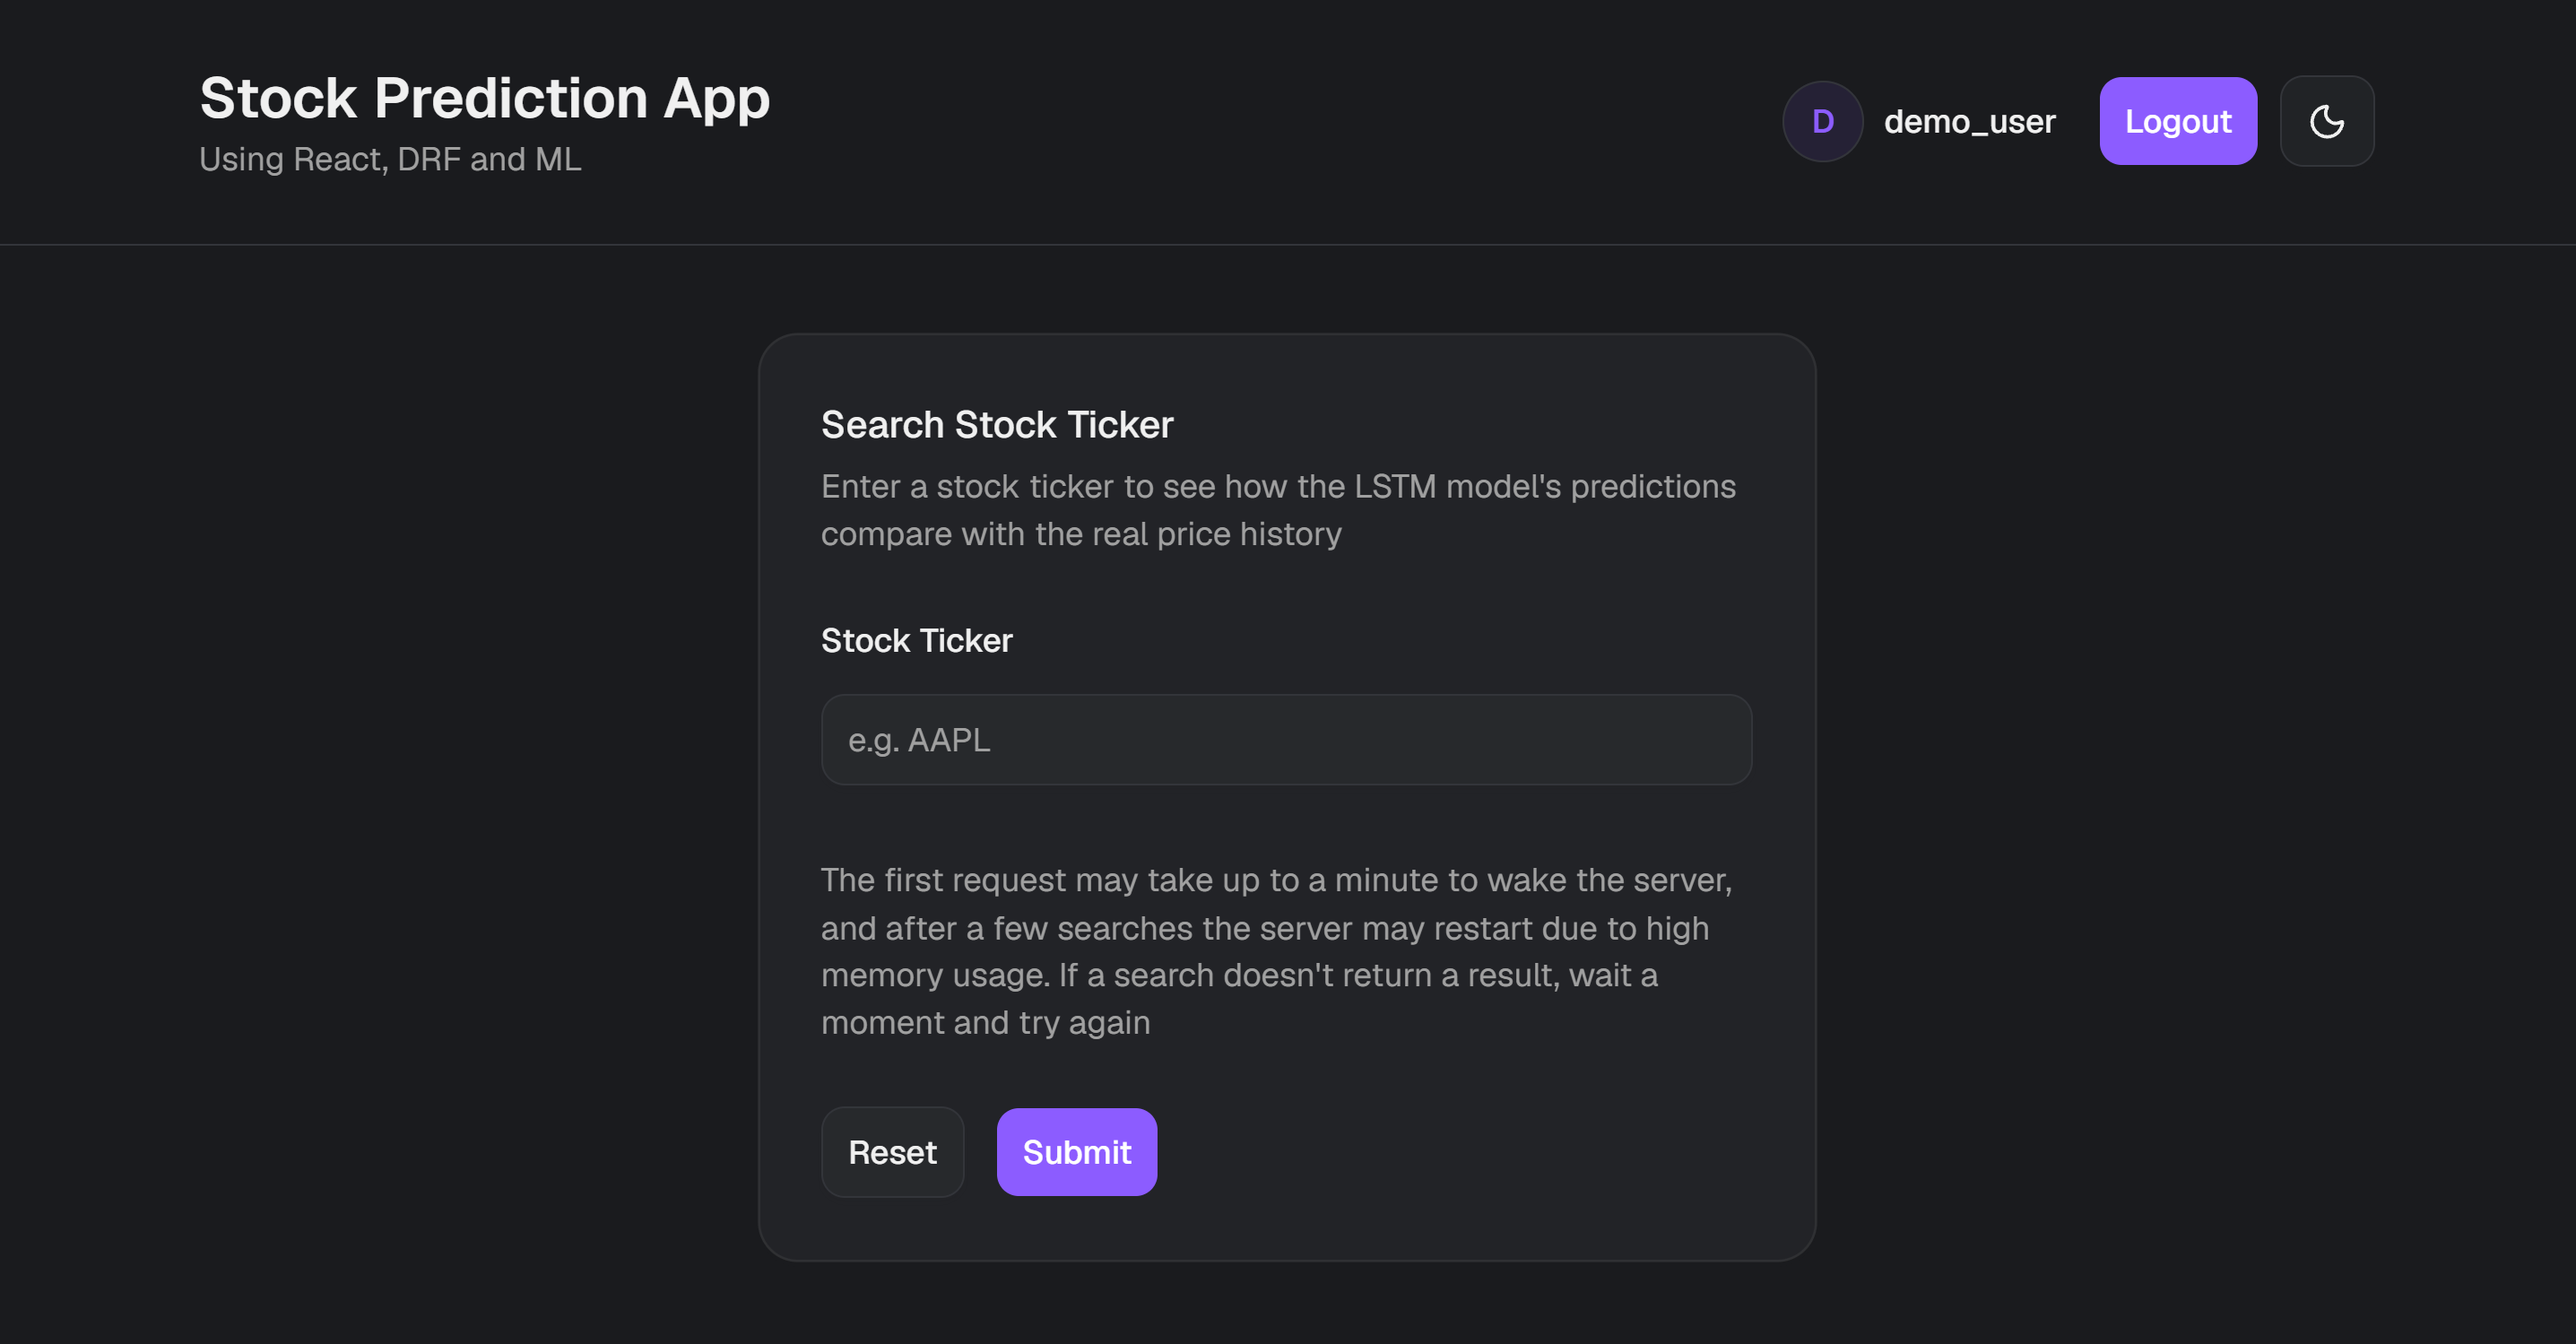
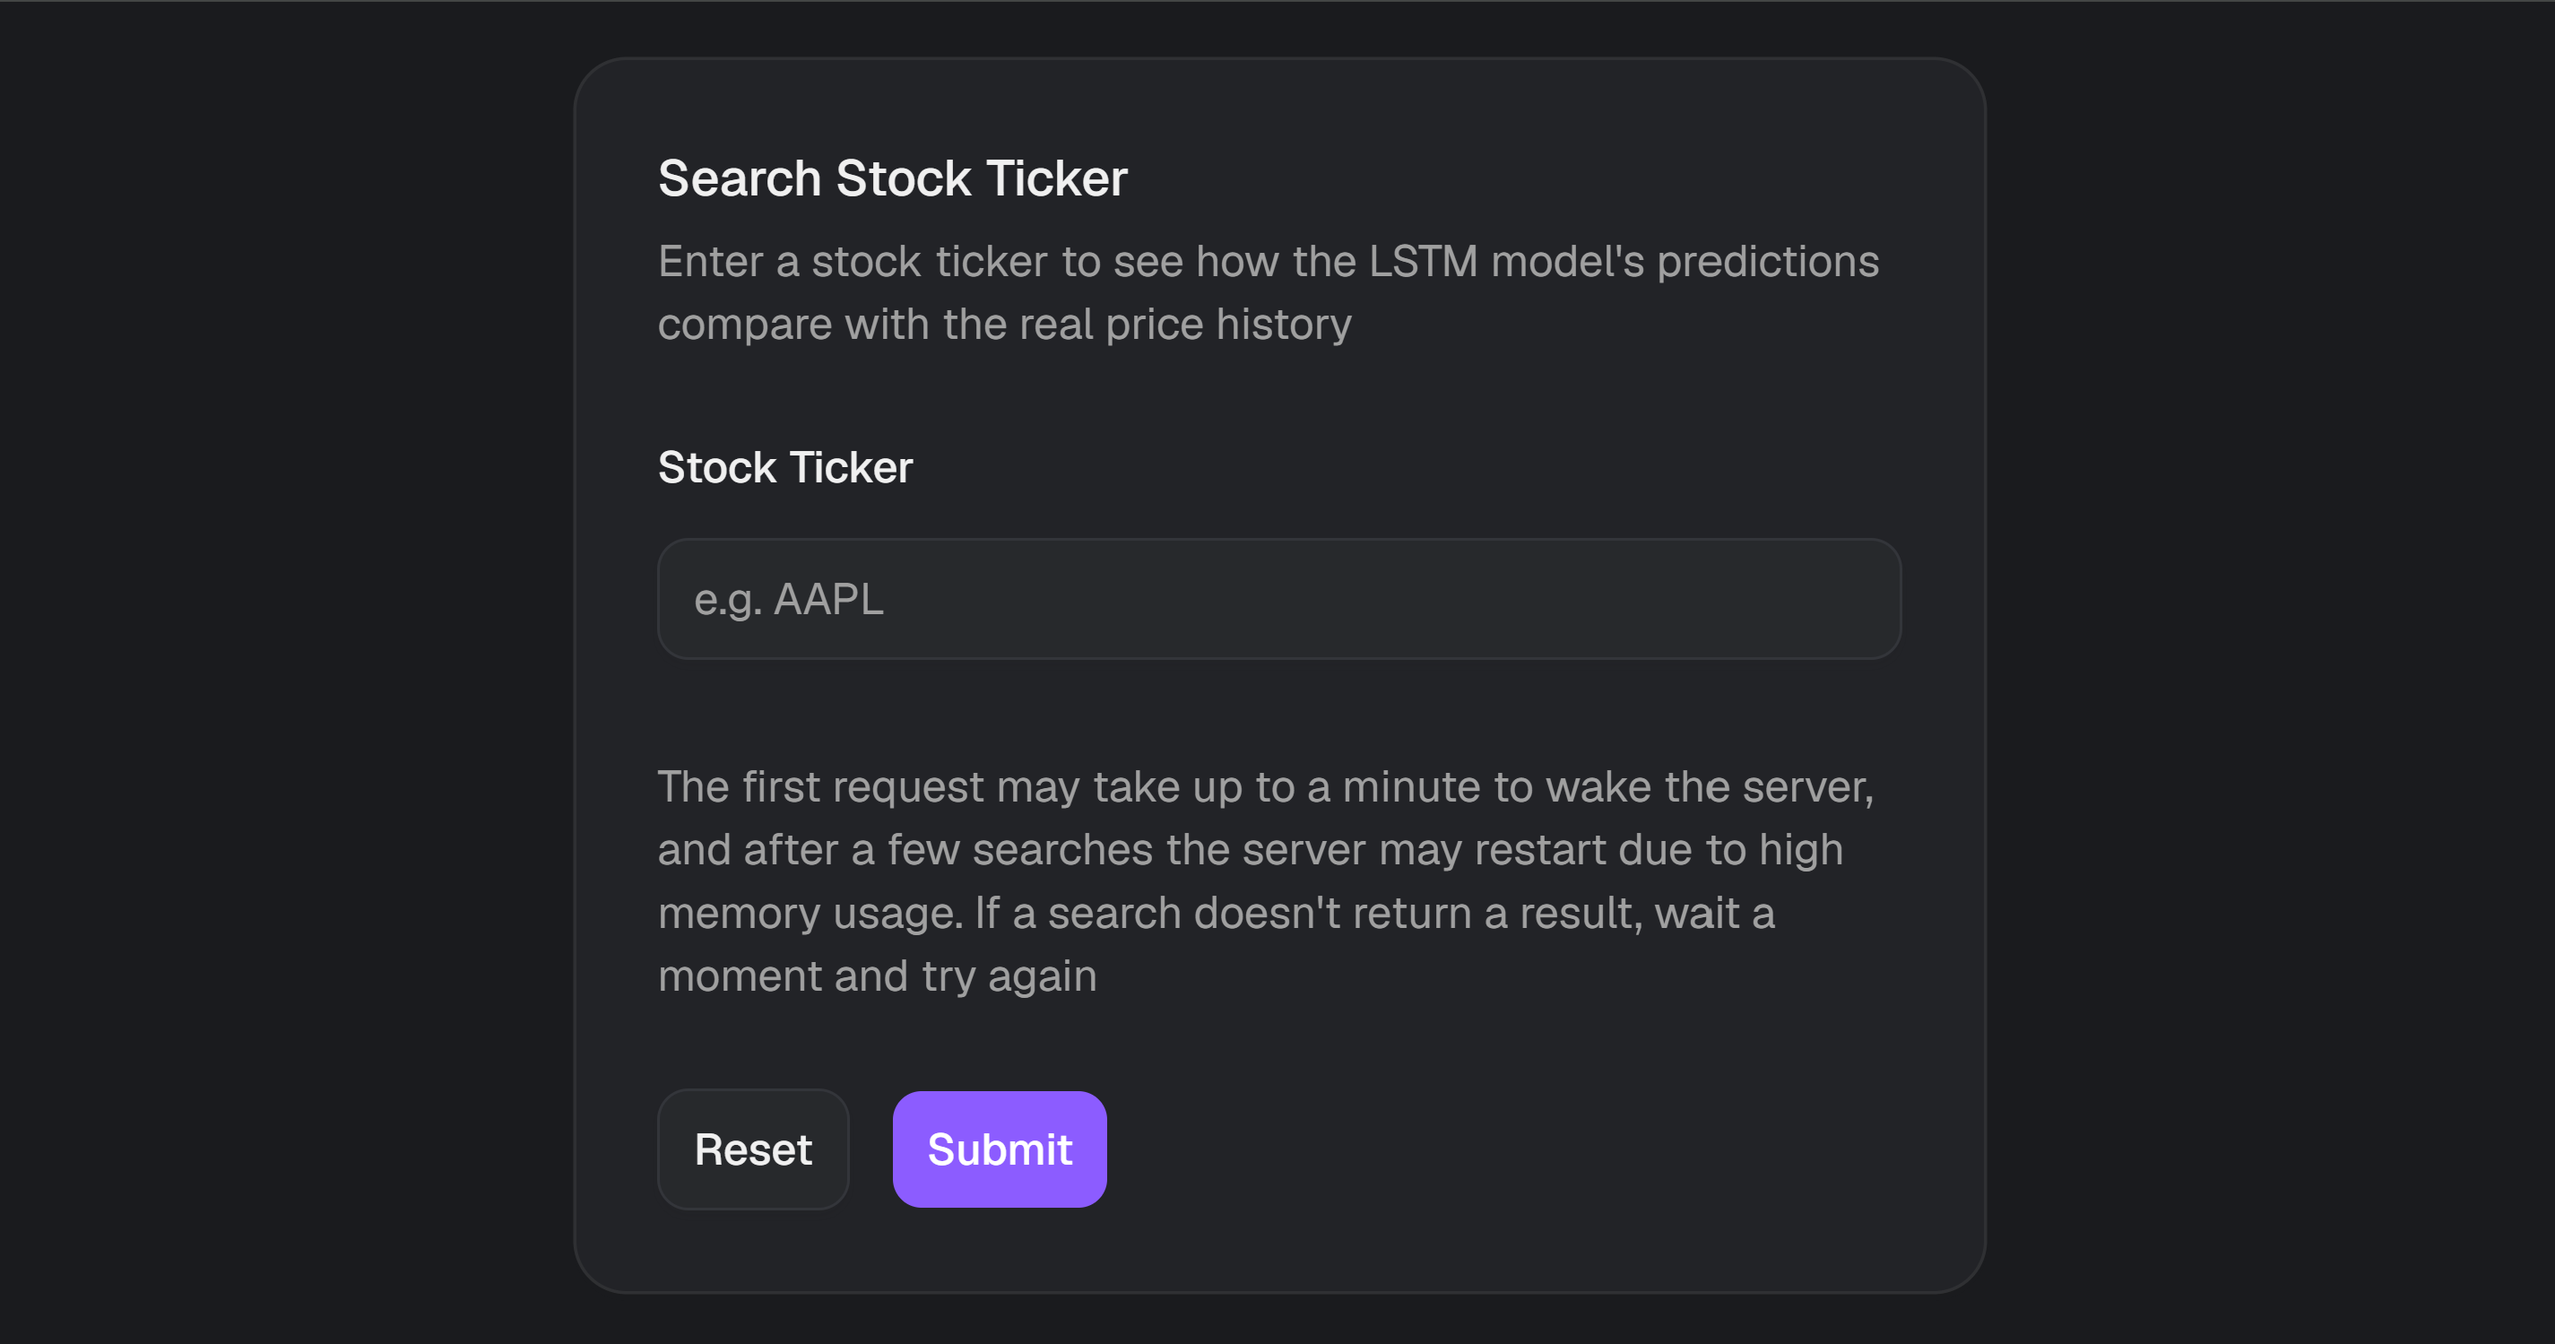
Update dashboard search form image

diff --git a/react-frontend/src/pages/Dashboard.tsx b/react-frontend/src/pages/Dashboard.tsx
@@ -6,7 +6,7 @@ function Dashboard() {
   const { mutate, data, isPending } = useStockAnalysis()
   return (
     <main
-      className={`page-center items-center px-5 ${data ? 'mt-10 mb-5' : ''}`}
+      className={`page-center items-center px-5 ${data ? 'mt-5 mb-5' : ''}`}
     >
       <SearchForm onSearch={mutate} isPending={isPending} />
       {data && <PredictionResults data={data} />}
